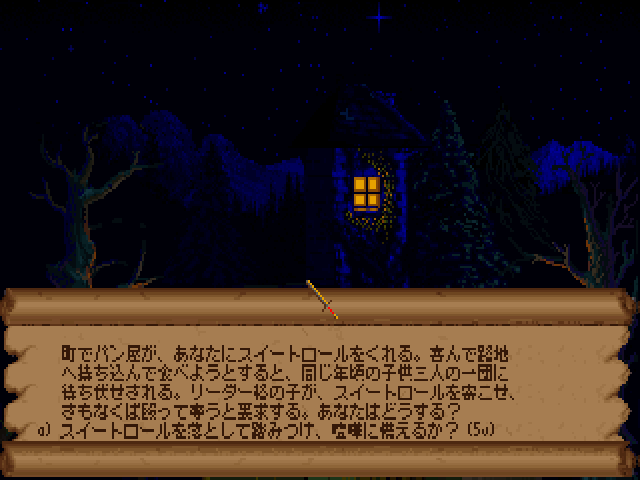
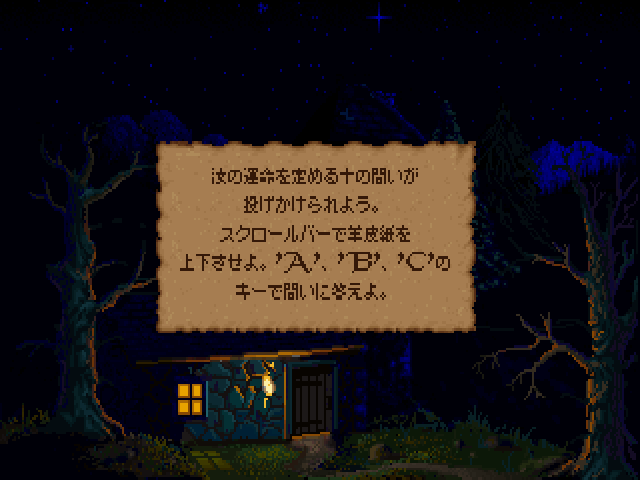
アリーナ: 絵の中の文字の日本語化と 14 ドットの字に合わせて紹介ページと画面を更新

diff --git a/docs/arena/index.html b/docs/arena/index.html
@@ -22,6 +22,7 @@
 <h1>アリーナ 日本語化MOD</h1>
 <p class="tag">GOG.com 版の「The Elder Scrolls: Arena」（DOS の CD-ROM 版）を日本語で遊べるようにする、非公式のファンメイドMODです。
 王や依頼主・町の人々の会話、本筋の語り、キャラクター作成の問いと説明、店や宿のやりとり、ダンジョンの看板や謎かけ、品物・呪文・地名・種族・職業の名前、メニューやメッセージまで、ゲームの中の文章を日本語にしています。
+日本語の字は、DOSBox が画面を拡大して映すときに 14 ドットの細かい字で描くので、読みやすくなっています。
 ゲームのフォルダにファイルを置くだけで日本語になり、外せば英語に戻ります。</p>
 <p><a class="dl" href="https://github.com/higesho/tes-ja/releases/tag/arena-v1.0">ダウンロード（GitHub）</a></p>
 </section>
@@ -38,13 +39,15 @@
 <h2>画面</h2>
 <div class="shots">
   <figure><img src="img/title.png" alt="タイトル（メインメニュー）の画面" loading="lazy"><figcaption>タイトル</figcaption></figure>
-  <figure><img src="img/question.png" alt="キャラクター作成で生い立ちの問いに答える画面" loading="lazy"><figcaption>職業を決める問い</figcaption></figure>
-  <figure><img src="img/race.png" alt="タムリエルの地図の上に種族の説明が出る画面" loading="lazy"><figcaption>種族の説明</figcaption></figure>
+  <figure><img src="img/question.png" alt="キャラクター作成で職業を決める問いの説明が出る画面" loading="lazy"><figcaption>職業を決める問い</figcaption></figure>
+  <figure><img src="img/race.png" alt="州の名前を日本語で描いたタムリエルの地図の上に、故郷を決める文が出る画面" loading="lazy"><figcaption>故郷の州を選ぶ</figcaption></figure>
   <figure><img src="img/vision.png" alt="リア・シルメインの幻影が日本語で語りかける画面" loading="lazy"><figcaption>リア・シルメインの幻影</figcaption></figure>
-  <figure><img src="img/field.png" alt="帝国地下牢の壁の前に日本語の文が出る画面" loading="lazy"><figcaption>帝国地下牢</figcaption></figure>
+  <figure><img src="img/field.png" alt="帝国地下牢で目覚めたときの語りが日本語で出る画面" loading="lazy"><figcaption>帝国地下牢</figcaption></figure>
   <figure><img src="img/monster.png" alt="地下牢の通路でネズミと出会う画面" loading="lazy"><figcaption>怪物</figcaption></figure>
   <figure><img src="img/status.png" alt="現在地・日付・所持重量を表示した画面" loading="lazy"><figcaption>状態</figcaption></figure>
   <figure><img src="img/camp.png" alt="野営の方法を選ぶ画面" loading="lazy"><figcaption>野営</figcaption></figure>
+  <figure><img src="img/equip.png" alt="見出しやボタンを日本語で描いた持ち物の画面" loading="lazy"><figcaption>持ち物</figcaption></figure>
+  <figure><img src="img/automap.png" alt="帝国地下牢の自動地図" loading="lazy"><figcaption>地図</figcaption></figure>
 </div>
 
 <div class="text">
@@ -68,7 +71,8 @@
 <li>都市や町の人々の名前は、画面ではカタカナで表示しますが、ゲームの中では英語のまま扱われます。町の名前を打ち込んで探すときは英語で入力します。</li>
 <li>ダンジョンの謎かけの答えは英語で入力します。</li>
 <li>名前やセーブの名前は英字で入力します。</li>
-<li>メインメニュー、オープニングの物語の巻物、キャラクター作成の地図の州名、能力値の画面の項目名など、絵として描かれた文字は英語のままです。</li>
+<li>日本語の字は、窓や全画面に映すときに 14 ドットで描きます。8 ドットの字で遊びたいときは、<code>DOSBOX\ARENAJP\arenajp.ini</code> に <code>Hires=0</code> の 1 行を足します。</li>
+<li>メインメニュー、オープニングの物語、地図の州名、能力値・持ち物・呪文書の画面など、絵として描かれた文字も日本語に描き直しています（方角の目盛りなど、ごく小さな文字は英語のままです）。</li>
 </ul>
 
 <h2>ご意見・誤訳の報告</h2>
@@ -76,7 +80,7 @@
 
 <h2>クレジット</h2>
 <ul>
-<li>日本語の表示に美咲フォント（Copyright &copy; 2002-2021 Num Kadoma）を使っています。美咲フォントは、自由に利用・複製・再配布できるフリーソフトウエアです。</li>
+<li>日本語の表示に美咲フォント（Copyright &copy; 2002-2021 Num Kadoma）と東雲フォント（The Electronic Font Open Laboratory）を使っています。美咲フォントは自由に利用・複製・再配布できるフリーソフトウエア、東雲フォントはパブリックドメインです。</li>
 <li>このMODの使用は自己責任でお願いします。</li>
 </ul>
 </div>

diff --git a/docs/index.html b/docs/index.html
@@ -52,7 +52,7 @@ GOG.com で販売されている DOS 版を対象にしています。
 <ul>
 <li>非公式のファンメイドMODです。ゲーム本体は GOG.com などで入手してください。</li>
 <li>MODはゲームのファイルを書き換えません。配布物には原作のプログラムやデータは入っていません。</li>
-<li>日本語の表示には、美咲フォント（8×8 ドット）を使っています。</li>
+<li>日本語の表示には、美咲フォント（8×8 ドット）と東雲フォント（14×14 ドットほか）を使っています。</li>
 </ul>
 
 <h2>ご意見・誤訳の報告</h2>

diff --git a/README.md b/README.md
@@ -25,4 +25,5 @@ GOG.com で販売されている DOS 版を対象にしています。
 ## クレジット・権利
 
 - 美咲フォント: Copyright (C) 2002-2021 Num Kadoma。自由に利用・複製・再配布できるフリーソフトウエアです。
+- 東雲フォント: The Electronic Font Open Laboratory。パブリックドメインのフォントです。
 - The Elder Scrolls は ZeniMax Media Inc. の商標です。ゲームの画像・文章の権利は原作の権利者にあります。
